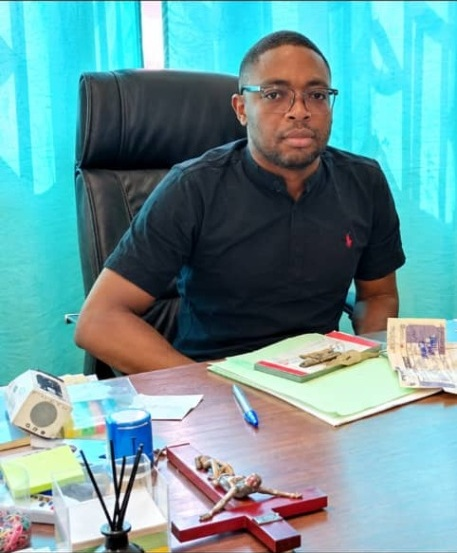
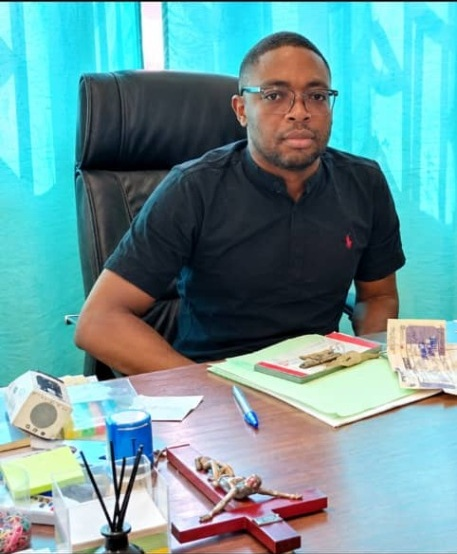
fix(team): cache-busting image URLs for Abanda & Tadjikam and contact page alignment

diff --git a/apps/web/src/data/rbacConfig.ts b/apps/web/src/data/rbacConfig.ts
@@ -61,7 +61,7 @@ export const PROFILES_CONFIG: Record<UserRole, UserProfile> = {
   econome: {
     id: 'usr-econome',
     role: 'econome',
-    name: 'P. Économe Jean-Paul BESSALA',
+    name: 'M. Gaël Marcel ABANDA',
     title: 'Économe & Gestionnaire Financier',
     email: 'economat@issr-bakhita.cm',
     department: 'Économat & Intendance',
@@ -339,7 +339,7 @@ export const SAMPLE_FINANCES: FinancialTuitionRecord[] = [
     totalPaid: 765000,
     remainingDue: 0,
     examQuitusGranted: true,
-    quitusGrantedBy: 'P. Économe Jean-Paul BESSALA',
+    quitusGrantedBy: 'M. Gaël Marcel ABANDA',
     quitusGrantedAt: '12 Septembre 2026',
     installments: [
       { id: 'inst-1', label: 'Inscription administrative', amount: 50000, paid: true, paidAt: '01/08/2026', receiptNumber: 'REC-2026-012' },
@@ -360,7 +360,7 @@ export const SAMPLE_FINANCES: FinancialTuitionRecord[] = [
     totalPaid: 150000,
     remainingDue: 0,
     examQuitusGranted: true,
-    quitusGrantedBy: 'P. Économe Jean-Paul BESSALA',
+    quitusGrantedBy: 'M. Gaël Marcel ABANDA',
     quitusGrantedAt: '15 Septembre 2026',
     installments: [
       { id: 'inst-4', label: 'Inscription administrative', amount: 50000, paid: true, paidAt: '05/08/2026', receiptNumber: 'REC-2026-024' },
@@ -401,7 +401,7 @@ export const SAMPLE_FINANCES: FinancialTuitionRecord[] = [
     totalPaid: 850000,
     remainingDue: 0,
     examQuitusGranted: true,
-    quitusGrantedBy: 'P. Économe Jean-Paul BESSALA',
+    quitusGrantedBy: 'M. Gaël Marcel ABANDA',
     quitusGrantedAt: '18 Septembre 2026',
     installments: [
       { id: 'inst-10', label: 'Inscription administrative', amount: 50000, paid: true, paidAt: '02/08/2026', receiptNumber: 'REC-2026-015' },
@@ -479,7 +479,7 @@ export const SAMPLE_AUDIT_LOGS: AuditLogEntry[] = [
   {
     id: 'log-01',
     timestamp: '19 Septembre 2026 à 15:42',
-    actorName: 'P. Économe Jean-Paul BESSALA',
+    actorName: 'M. Gaël Marcel ABANDA',
     actorRole: 'econome',
     action: 'Délivrance de Quitus Financier',
     target: 'Fr. Emmanuel NGOUMOU (ISSR-2026-084)',

diff --git a/apps/web/src/app/contact/page.tsx b/apps/web/src/app/contact/page.tsx
@@ -206,6 +206,12 @@ export default function ContactPage() {
                   </div>
 
                   <div className="p-3.5 bg-slate-50 rounded-2xl border border-slate-100">
+                    <div className="font-bold text-slate-900 text-sm">M. Gaël Marcel ABANDA</div>
+                    <div className="text-issr-primary font-semibold">Économe</div>
+                    <div className="text-slate-500 mt-1">Gestion financière, scolarités &amp; intendance</div>
+                  </div>
+
+                  <div className="p-3.5 bg-slate-50 rounded-2xl border border-slate-100">
                     <div className="font-bold text-slate-900 text-sm">Secrétariat Général &amp; Admissions</div>
                     <div className="text-issr-primary font-semibold">Mlles Lydie TSELI (Cours du jour) &amp; Manuella NYAMBONE (Cours du soir)</div>
                     <div className="text-slate-500 mt-1">Dépôt des dossiers, attestations et scolarité</div>

diff --git a/apps/web/src/app/admin/page.tsx b/apps/web/src/app/admin/page.tsx
@@ -730,7 +730,7 @@ export default function AdminPage() {
                   <option value="secretaire_acad">3. Secrétariat Direction Cours du Jour (Mlle Lydie TSELI)</option>
                   <option value="secretaire_admin">4. Secrétariat Direction Cours du Soir (Mlle Manuella NYAMBONE)</option>
                   <option value="prefet_etudes">5. Préfet des Études (P. Chrétien TADJIKAM,cm)</option>
-                  <option value="econome">6. Économe (P. Jean-Paul BESSALA)</option>
+                  <option value="econome">6. Économe (M. Gaël Marcel ABANDA)</option>
                   <option value="rep_enseignants">7. Délégué Enseignants (Pr. Antoine ESSOMBA)</option>
                   <option value="enseignants">8. Enseignants (Dr. Théophile NDONG)</option>
                   <option value="etudiants">9. Espace Étudiant (Fr. Emmanuel NGOUMOU)</option>

diff --git a/apps/web/src/data/mockData.ts b/apps/web/src/data/mockData.ts
@@ -106,7 +106,7 @@ export const TEAM_MEMBERS: TeamMember[] = [
     title: "Préfet des Études",
     role: "Prêtre Lazariste (cm), Coordination pédagogique",
     bio: "Supervise l'organisation des cours, le suivi académique des apprenants et le corps enseignant.",
-    imageUrl: "/images/team/chretien-tadjikam.jpg",
+    imageUrl: "/images/team/chretien-tadjikam-2026.jpg",
     objectPosition: "center 20%"
   },
   {
@@ -124,7 +124,7 @@ export const TEAM_MEMBERS: TeamMember[] = [
     title: "Économe",
     role: "Gestion financière et intendance",
     bio: "En charge de l'administration financière, des scolarités et de la gestion matérielle.",
-    imageUrl: "/images/team/gael-marcel-abanda.jpg",
+    imageUrl: "/images/team/gael-marcel-abanda-2026.jpg",
     objectPosition: "center 20%"
   },
   {

diff --git a/apps/services-nest/school-service/src/users/users.service.ts b/apps/services-nest/school-service/src/users/users.service.ts
@@ -134,8 +134,8 @@ export class UsersService {
       email: 'economat@issr-bakhita.cm',
       role: 'econome',
       roleTitle: 'Économat & Intendance',
-      firstName: 'Jean-Paul',
-      lastName: 'BESSALA',
+      firstName: 'Gaël Marcel',
+      lastName: 'ABANDA',
       department: 'Économat & Intendance',
       isActive: true,
       passwordHash: '2f1058d7e3ac59ec9969808b987c7bff:a98a064dd26dd496bc9991c9ec5027f507a732eb4b665b3b179b908f39913b84ea4eb8d5b9209c0159f9733e72967e0ffac411af12e314a90d0066aa2b100130', // Economat@2026!
